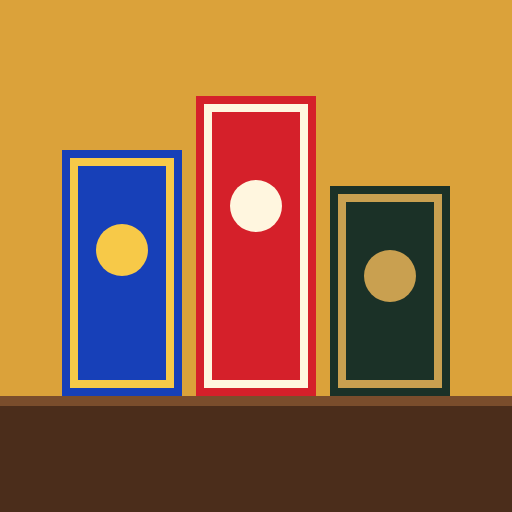
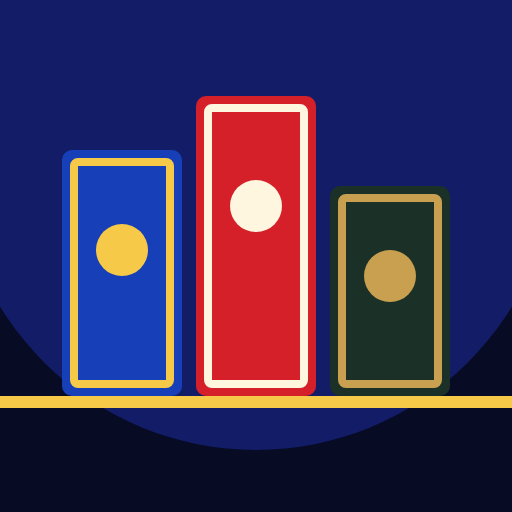
1.1.0: a new look, to match the games
The redesign from the Friend Game Night design canvas: a dark navy stage with
a row of gold marquee bulbs, GAME NIGHT in the tall lettering Friend Feud
uses, the eight boxes as even cards in a grid, and a dark opened box with a
big gold button and a gold waiting bar. New Friend Feud box picture and
home-screen icons. How the page works is unchanged; npm test passes 39 of 39.

Claude-Session: https://claude.ai/code/session_01MUxEFSiy2ov4ZGJwRjcq63

diff --git a/public/style.css b/public/style.css
@@ -1,6 +1,6 @@
-/* Game Night: the hub. A rec-room wall, a walnut shelf, and one box per game.
+/* Game Night: the hub. A dark stage, a row of marquee bulbs, and one box per game.
    The boxes carry all the colour (each wears its own game's colours and lettering);
-   everything around them stays quiet. */
+   everything around them stays quiet. Same look as the games themselves. */
 
 @font-face { font-family: 'Bricolage'; src: url(fonts/bricolage.woff2) format('woff2'); font-weight: 200 800; font-stretch: 75% 100%; font-display: swap; }
 @font-face { font-family: 'Anton'; src: url(fonts/anton.woff2) format('woff2'); font-display: swap; }
@@ -9,164 +9,170 @@
 @font-face { font-family: 'Germania One'; src: url(fonts/germania.woff2) format('woff2'); font-display: swap; }
 
 :root {
-  --wall: #dba23a;        /* rec-room ochre */
-  --wall-lit: #e8b755;    /* where the lamp hits it */
-  --ink: #1d130c;
-  --walnut: #4b2d1b;
-  --walnut-lit: #7a4d2c;
-  --walnut-deep: #2c190e;
-  --paper: #fbf4e4;
-  --paper-line: #d9cba6;
-  --go: #1d7a46;
-  --plank: 18px;          /* thickness of a shelf */
-  --shade: 14px;          /* the shadow a shelf throws on the wall under it */
+  --ground: #070b24;      /* the stage */
+  --light: #1b2c9e;       /* where the spotlight hits it */
+  --panel: #0e1542;
+  --panel-hi: #1c2a7a;
+  --line: #2b3784;
+  --line-soft: #1b2466;
+  --text: #f5f2ea;
+  --soft: #c9d0f2;
+  --muted: #aeb7e6;
+  --gold: #f7c948;
+  --gold-deep: #9a6b00;
+  --gold-ink: #1f1600;
+  --go: #4ade80;
+  --display: 'Anton', 'Impact', 'Haettenschweiler', 'Arial Narrow Bold', sans-serif;
   --ui: 'Bricolage', 'Avenir Next', 'Segoe UI', system-ui, sans-serif;
 }
 
 * { box-sizing: border-box; }
-html { -webkit-text-size-adjust: 100%; }
+html { -webkit-text-size-adjust: 100%; background: var(--ground); }
 body {
   margin: 0; min-height: 100vh; min-height: 100dvh;
-  font: 400 1.0625rem/1.5 var(--ui); color: var(--ink);
-  background: radial-gradient(120% 70% at 50% 0%, var(--wall-lit), var(--wall) 60%) fixed var(--wall);
+  font: 400 1.0625rem/1.5 var(--ui); color: var(--text);
+  background: radial-gradient(ellipse 1100px 620px at 30% 0%, var(--light) 0%, rgba(14,21,66,0) 72%) no-repeat var(--ground);
   padding: env(safe-area-inset-top) env(safe-area-inset-right) env(safe-area-inset-bottom) env(safe-area-inset-left);
 }
-:focus-visible { outline: 3px solid var(--ink); outline-offset: 3px; }
+/* a row of marquee bulbs across the top of the page */
+body::before {
+  content: ""; display: block; height: 16px; margin-top: 28px;
+  background: radial-gradient(circle, var(--gold) 0 4px, rgba(247,201,72,0) 5px) center / 40px 16px repeat-x;
+}
+:focus-visible { outline: 3px solid var(--gold); outline-offset: 3px; }
 
 /* ---------------------------------------------------------------- top */
-.top { max-width: 1120px; margin: 0 auto; padding: clamp(1.5rem, 5vw, 3.5rem) 1.25rem clamp(1rem, 3vw, 2rem); }
-.top h1 {
-  margin: 0; font-weight: 800; font-stretch: 75%; letter-spacing: -0.035em; line-height: .86;
-  font-size: clamp(3.6rem, 15vw, 9.5rem); text-wrap: balance;
+.top {
+  max-width: 1200px; margin: 0 auto; padding: clamp(1.75rem, 5vw, 3.5rem) 1.5rem clamp(1.5rem, 4vw, 3.5rem);
+  display: flex; flex-wrap: wrap; align-items: flex-end; justify-content: space-between; gap: 1rem 3rem;
 }
-.lede { margin: .9rem 0 0; max-width: 34ch; font-size: clamp(1.1rem, 2.2vw, 1.4rem); line-height: 1.35; font-weight: 500; }
+.top h1 {
+  margin: 0; font: 400 clamp(4.4rem, 16vw, 12.5rem)/.9 var(--display); letter-spacing: .01em; text-transform: uppercase;
+  display: flex; flex-wrap: wrap; gap: 0 .22em;
+}
+.top h1 span { color: var(--gold); }
+.lede { margin: 0 0 .8rem; max-width: 22rem; font-size: clamp(1.1rem, 2.2vw, 1.3rem); line-height: 1.4; font-weight: 500; color: var(--soft); }
 
 /* -------------------------------------------------------------- shelf */
-.shelf { container-type: inline-size; max-width: 1120px; margin: 0 auto; padding: 0 .5rem; }
+.shelf { container-type: inline-size; max-width: 1200px; margin: 0 auto; padding: 0 1.5rem; }
 .rack {
-  --cols: 4; --row: 31cqw; --name: 2.9cqw;
-  list-style: none; margin: 0; padding: 0 1.5cqw;
-  display: grid; grid-template-columns: repeat(var(--cols), 1fr); grid-auto-rows: var(--row);
-  /* one walnut plank under every row, however many rows there are */
-  background:
-    repeating-linear-gradient(to bottom,
-      rgba(29,19,12,0) 0, rgba(29,19,12,0) calc(var(--row) - var(--plank) - var(--shade)),
-      var(--walnut-lit) calc(var(--row) - var(--plank) - var(--shade)), var(--walnut-lit) calc(var(--row) - var(--plank) - var(--shade) + 2px),
-      var(--walnut) calc(var(--row) - var(--plank) - var(--shade) + 2px), var(--walnut) calc(var(--row) - var(--shade) - 4px),
-      var(--walnut-deep) calc(var(--row) - var(--shade) - 4px), var(--walnut-deep) calc(var(--row) - var(--shade)),
-      rgba(29,19,12,.24) calc(var(--row) - var(--shade)), rgba(29,19,12,0) var(--row));
-  border-radius: 3px;
+  --cols: 4; --row: 28cqw; --gap: 2cqw; --name: 2.9cqw;
+  list-style: none; margin: 0; padding: 0;
+  display: grid; grid-template-columns: repeat(var(--cols), minmax(0, 1fr)); grid-auto-rows: var(--row); gap: var(--gap);
 }
-@container (max-width: 700px) { .rack { --cols: 2; --row: 62cqw; --name: 6cqw; padding: 0 2cqw; } }
+@container (max-width: 700px) { .rack { --cols: 2; --row: 60cqw; --gap: 4cqw; --name: 6cqw; } }
 
-.rack li { display: flex; align-items: flex-end; justify-content: center; padding: var(--shade) 0 calc(var(--plank) + var(--shade)); min-width: 0; }
-.rack li:nth-child(4n+1) { --h: .93; }
-.rack li:nth-child(4n+2) { --h: .86; }
-.rack li:nth-child(4n+3) { --h: .9; }
-.rack li:nth-child(4n)   { --h: .82; }
+.rack li { display: flex; min-width: 0; }
 
 .box {
   --lid: #333; --ink2: #fff; --trim: #fff;
-  position: relative; width: 84%; height: calc(100% * var(--h, .9));
+  position: relative; flex: 1; min-width: 0;
   display: grid; grid-template-rows: 1fr auto; gap: 1.2cqw;
-  padding: 2.4cqw 3.3cqw 2cqw 2.2cqw; margin: 0; border: 0; border-radius: 3px 3px 1px 1px;
+  padding: 2.2cqw 2cqw 1.9cqw; margin: 0; border: 0; border-radius: 1.6cqw;
   background: var(--lid); color: var(--ink2); font: inherit; text-align: left; cursor: pointer;
-  /* trim frame, the lid's right-hand edge, and the shadow it throws on the wall */
-  box-shadow:
-    inset 0 0 0 .55cqw var(--lid), inset 0 0 0 .8cqw var(--trim),
-    inset -1.1cqw 0 0 rgba(0,0,0,.22),
-    .9cqw 0 0 -0.1cqw rgba(29,19,12,.16), 0 -1px 0 rgba(255,255,255,.25);
-  transition: transform .16s ease;
+  /* the trim frame, and the edge the box stands on */
+  box-shadow: inset 0 0 0 .55cqw var(--lid), inset 0 0 0 .8cqw var(--trim), 0 .8cqw 0 rgba(0,0,0,.45);
+  transition: transform .16s ease, box-shadow .16s ease;
   -webkit-tap-highlight-color: transparent;
 }
 @container (max-width: 700px) {
-  .box { padding: 5cqw 6.4cqw 4cqw 4.4cqw; gap: 2.4cqw;
-    box-shadow: inset 0 0 0 1.1cqw var(--lid), inset 0 0 0 1.6cqw var(--trim), inset -2.2cqw 0 0 rgba(0,0,0,.22), 1.8cqw 0 0 -0.2cqw rgba(29,19,12,.16), 0 -1px 0 rgba(255,255,255,.25); }
+  .box { padding: 4.6cqw 4.2cqw 4cqw; gap: 2.4cqw; border-radius: 3.4cqw;
+    box-shadow: inset 0 0 0 1.1cqw var(--lid), inset 0 0 0 1.6cqw var(--trim), 0 1.6cqw 0 rgba(0,0,0,.45); }
 }
-.box:hover, .box:focus-visible { transform: translateY(-1.1cqw); }
-.box:active { transform: translateY(-.3cqw); }
+.box:hover, .box:focus-visible { transform: translateY(-.7cqw); }
+.box:active { transform: translateY(.3cqw); }
 .box .art { position: relative; display: grid; place-items: center; min-height: 0; }
 .box .art img { position: absolute; inset: 6% 14%; width: 72%; height: 88%; object-fit: contain; }
-.box .art .letter { font: 800 12cqw/1 var(--ui); color: var(--trim); }
+.box .art .letter { font: 400 12cqw/1 var(--display); color: var(--trim); }
 .box .name {
   display: block; font-family: var(--face, var(--ui)), var(--ui); font-weight: 800;
   font-size: calc(var(--name) * var(--fit, 1)); line-height: 1.02; text-wrap: balance;
 }
-.box .who { display: block; margin-top: .5cqw; font: 500 max(.72rem, calc(var(--name) * .42))/1.2 var(--ui); opacity: .9; }
+.box .who { display: block; margin-top: .5cqw; font: 600 max(.72rem, calc(var(--name) * .42))/1.2 var(--ui); }
 
 /* ---------------------------------------------------------------- how */
-.how { max-width: 1120px; margin: 0 auto; padding: clamp(2.2rem, 6vw, 4rem) 1.25rem 1rem; }
-.how h2 { margin: 0 0 1rem; font-weight: 800; font-stretch: 75%; font-size: clamp(1.6rem, 4vw, 2.4rem); letter-spacing: -.02em; line-height: 1; }
-.how ol { list-style: none; counter-reset: s; margin: 0; padding: 0; display: grid; gap: 1.1rem 2rem; grid-template-columns: repeat(auto-fit, minmax(15rem, 1fr)); }
-.how li { counter-increment: s; display: grid; grid-template-columns: auto 1fr; gap: .8rem; align-items: start; line-height: 1.4; max-width: 34ch; }
+.how { max-width: 1200px; margin: clamp(2.5rem, 6vw, 4rem) auto 0; padding: 0 1.5rem 1rem; }
+.how h2 {
+  margin: 0 0 1.75rem; padding-top: clamp(2rem, 5vw, 3rem); border-top: 2px solid var(--line-soft);
+  font: 400 clamp(2rem, 5vw, 2.75rem)/1 var(--display); letter-spacing: .03em; text-transform: uppercase;
+}
+.how ol { list-style: none; counter-reset: s; margin: 0; padding: 0; display: grid; gap: 1.5rem 2.5rem; grid-template-columns: repeat(auto-fit, minmax(min(16rem, 100%), 1fr)); }
+.how li { counter-increment: s; display: grid; grid-template-columns: auto 1fr; gap: 1rem; align-items: start; font-size: 1.125rem; line-height: 1.45; color: var(--soft); }
 .how li > span { min-width: 0; }
-.how li::before { content: counter(s); font-weight: 800; font-stretch: 75%; font-size: 2.6rem; line-height: .9; min-width: 1.4rem; }
-.nap { margin: 1.6rem 0 0; max-width: 62ch; padding-top: 1rem; border-top: 2px solid rgba(29,19,12,.25); }
-.plain { max-width: 1120px; margin: 1rem auto; padding: 0 1.25rem; }
-.plain a { color: inherit; }
+.how li strong { color: var(--text); }
+.how li::before { content: counter(s); font: 400 4rem/.9 var(--display); color: var(--gold); min-width: 1.6rem; }
+.nap { margin: 1.75rem 0 0; max-width: 62ch; font-size: 1rem; color: var(--muted); }
+.plain { max-width: 1200px; margin: 1rem auto; padding: 0 1.5rem; }
+.plain a { color: var(--gold); }
 
-.foot { max-width: 1120px; margin: 0 auto; padding: 1.5rem 1.25rem 2.5rem; font-size: .9rem; opacity: .75; }
+.foot { max-width: 1200px; margin: 0 auto; padding: 2rem 1.5rem 2.5rem; font-size: .8rem; font-weight: 700; letter-spacing: .08em; text-transform: uppercase; color: #8e99d6; }
 
 /* ------------------------------------------------------- the opened box */
 dialog {
   --lid: #333; --ink2: #fff; --trim: #fff;
-  width: min(34rem, calc(100vw - 1.5rem)); max-height: calc(100dvh - 1.5rem);
-  padding: 0; border: 0; border-radius: 6px; overflow: auto;
-  background: var(--paper); color: var(--ink);
-  box-shadow: 0 1.5rem 4rem rgba(29,19,12,.5);
+  width: min(35rem, calc(100vw - 1.5rem)); max-height: calc(100dvh - 1.5rem);
+  padding: 0; border: 0; border-radius: 22px; overflow: auto;
+  background: var(--panel); color: var(--text);
+  box-shadow: 0 0 0 2px var(--line), 0 2.5rem 6rem rgba(0,0,0,.7);
 }
-dialog::backdrop { background: rgba(29,19,12,.62); }
+dialog::backdrop { background: rgba(3,5,26,.82); }
 dialog[open] { animation: lift .18s ease-out; }
 @keyframes lift { from { transform: translateY(14px); opacity: 0; } }
 
 .lid {
   display: grid; grid-template-columns: auto 1fr auto; gap: 1rem; align-items: center;
-  padding: 1.1rem 1.1rem 1.1rem 1.25rem; background: var(--lid); color: var(--ink2);
-  box-shadow: inset 0 -4px 0 var(--trim);
+  padding: 1.25rem 1.25rem 1.25rem 1.4rem; background: var(--lid); color: var(--ink2);
+  border-bottom: 5px solid var(--trim);
 }
 .lid img, .lid .letter { width: 3.6rem; height: 3.6rem; }
 .lid .letter[hidden], .lid img[hidden] { display: none; }
-.lid .letter { display: grid; place-items: center; font: 800 2.4rem/1 var(--ui); color: var(--trim); }
-.lid h2 { margin: 0; font-family: var(--face, var(--ui)), var(--ui); font-weight: 800; font-size: clamp(1.5rem, 6vw, 2.1rem); line-height: 1.05; text-wrap: balance; }
-.lid form { margin: 0; align-self: start; }
-.shut { font: 600 .9rem/1 var(--ui); color: inherit; background: rgba(0,0,0,.22); border: 1.5px solid currentColor; border-radius: 99px; padding: .5rem .8rem; cursor: pointer; }
+.lid .letter { display: grid; place-items: center; font: 400 2.6rem/1 var(--display); color: var(--trim); }
+.lid h2 { margin: 0; font-family: var(--face, var(--ui)), var(--ui); font-weight: 800; font-size: clamp(1.5rem, 6vw, 2.2rem); line-height: 1.05; text-wrap: balance; }
+.lid form { margin: 0; }
+.shut { font: 700 .9rem/1 var(--ui); color: inherit; background: rgba(0,0,0,.28); border: 1.5px solid currentColor; border-radius: 99px; min-height: 44px; padding: 0 1.1rem; cursor: pointer; }
 .shut:focus-visible { outline-color: var(--ink2); }
 
-.inside { padding: 1.25rem; }
+.inside { padding: 1.5rem; }
 .inside[hidden] { display: none; }
-.pitch { margin: 0 0 1.1rem; font-size: 1.125rem; line-height: 1.45; }
-.facts { margin: 0 0 1.1rem; border-top: 1px solid var(--paper-line); }
-.facts div { display: grid; grid-template-columns: 6.5rem 1fr; gap: .75rem; padding: .55rem 0; border-bottom: 1px solid var(--paper-line); }
-.facts dt { font-weight: 700; }
-.facts dd { margin: 0; }
+.pitch { margin: 0 0 1.25rem; font-size: 1.125rem; line-height: 1.45; font-weight: 500; }
+.facts { margin: 0 0 1.25rem; border-top: 1.5px solid var(--line-soft); }
+.facts div { display: grid; grid-template-columns: 7rem 1fr; gap: .75rem; padding: .7rem 0; border-bottom: 1.5px solid var(--line-soft); }
+.facts dt { font-size: .8rem; font-weight: 800; letter-spacing: .1em; text-transform: uppercase; color: var(--gold); padding-top: .2rem; }
+.facts dd { margin: 0; font-weight: 600; }
 
-.status { display: flex; align-items: center; gap: .6rem; margin: 0 0 1rem; font-weight: 600; min-height: 1.6rem; }
-.dot { width: .75rem; height: .75rem; border-radius: 50%; background: #9a8a63; flex: none; }
-.status[data-state="waking"] .dot, .status[data-state="checking"] .dot { background: #c9820a; animation: pulse 1.1s ease-in-out infinite; }
+.status { display: flex; align-items: center; gap: .6rem; margin: 0 0 1.25rem; font-weight: 700; min-height: 1.6rem; }
+.dot { width: .75rem; height: .75rem; border-radius: 50%; background: #8e99d6; flex: none; }
+.status[data-state="waking"] .dot, .status[data-state="checking"] .dot { background: var(--gold); animation: pulse 1.1s ease-in-out infinite; }
 .status[data-state="ready"] .dot { background: var(--go); }
-.status[data-state="stuck"] .dot { background: #b3261e; }
+.status[data-state="stuck"] .dot { background: #ff6a5e; }
 @keyframes pulse { 50% { opacity: .25; } }
 
-.acts { display: grid; gap: .65rem; }
+.acts { display: grid; gap: .9rem; }
 .btn {
-  display: block; width: 100%; text-align: center; text-decoration: none; cursor: pointer;
-  font: 700 1.0625rem/1.2 var(--ui); padding: .95rem 1rem; border-radius: 8px;
-  color: var(--ink); background: transparent; border: 2px solid var(--ink);
+  display: flex; align-items: center; justify-content: center; width: 100%; min-height: 3.5rem; text-align: center; text-decoration: none; cursor: pointer;
+  font: 800 1rem/1.2 var(--ui); padding: .6rem 1rem; border-radius: 16px;
+  color: #d6dcff; background: transparent; border: 1.5px solid #3a4aa8;
+  transition: transform .09s ease-out, box-shadow .09s ease-out, background-color .15s;
 }
-.btn.main { color: var(--paper); background: var(--ink); }
-.btn:hover { background: rgba(29,19,12,.08); }
-.btn.main:hover { background: #3a281b; }
+.btn:hover { background: rgba(255,255,255,.07); color: #fff; }
+.btn.main {
+  min-height: 4.25rem; padding-top: .8rem; border: 0; border-radius: 18px; margin-bottom: 6px;
+  font: 400 1.7rem/1 var(--display); letter-spacing: .06em; text-transform: uppercase;
+  color: var(--gold-ink); background: var(--gold); box-shadow: 0 6px 0 var(--gold-deep);
+}
+.btn.main:hover { background: #ffd966; color: var(--gold-ink); }
+.btn.main:active { transform: translateY(4px); box-shadow: 0 2px 0 var(--gold-deep); }
 .btn[hidden] { display: none; }
-.hint { margin: .8rem 0 0; font-size: .95rem; color: #5a4a35; }
+.hint { margin: 1rem 0 0; font-size: .9rem; color: var(--muted); }
 .hint:empty { display: none; }
 
-.waithead { margin: .25rem 0 1rem; font-weight: 800; font-stretch: 75%; font-size: 1.7rem; line-height: 1.1; letter-spacing: -.01em; text-wrap: balance; }
-.bar { height: .75rem; border-radius: 99px; background: #e6d9b8; overflow: hidden; margin-bottom: 1rem; }
-.bar i { display: block; height: 100%; width: 4%; border-radius: 99px; background: var(--lid); transition: width .4s linear; }
-.waitnote { margin: 0 0 1.25rem; color: #5a4a35; }
+.waithead { margin: .25rem 0 1.25rem; font: 400 2.1rem/1.1 var(--display); letter-spacing: .02em; text-transform: uppercase; text-wrap: balance; }
+.bar { height: 1.25rem; padding: 4px; border-radius: 99px; background: var(--ground); box-shadow: inset 0 0 0 1.5px var(--line); overflow: hidden; margin-bottom: 1.25rem; }
+.bar i { display: block; height: 100%; width: 4%; border-radius: 99px; background: var(--gold); transition: width .4s linear; }
+.waitnote { margin: 0 0 1.5rem; color: var(--soft); }
 
 @media (prefers-reduced-motion: reduce) {
-  .box, .bar i { transition: none; }
+  .box, .bar i, .btn { transition: none; }
   .box:hover, .box:focus-visible, .box:active { transform: none; }
   dialog[open] { animation: none; }
   .status .dot { animation: none !important; }

diff --git a/public/index.html b/public/index.html
@@ -6,17 +6,17 @@
 <title>Game Night</title>
 <meta name="description" content="Every game in one place. Pick a box, put it on the TV, and everyone plays from their phone.">
 <meta name="robots" content="noindex">
-<meta name="theme-color" content="#dba23a">
+<meta name="theme-color" content="#070b24">
 <link rel="manifest" href="manifest.webmanifest">
 <link rel="icon" href="icon.svg" type="image/svg+xml">
 <link rel="apple-touch-icon" href="icon-180.png">
 <link rel="preload" href="fonts/bricolage.woff2" as="font" type="font/woff2" crossorigin>
-<link rel="stylesheet" href="style.css?v=1.0.0">
+<link rel="stylesheet" href="style.css?v=1.1.0">
 </head>
 <body>
 
 <header class="top">
-  <h1>Game Night</h1>
+  <h1>Game <span>Night</span></h1>
   <p class="lede">Pick a box. One screen shows the board, and everyone plays from their phone.</p>
 </header>
 
@@ -88,7 +88,7 @@
   </div>
 </dialog>
 
-<script src="games.js?v=1.0.0"></script>
-<script src="hub.js?v=1.0.0"></script>
+<script src="games.js?v=1.1.0"></script>
+<script src="hub.js?v=1.1.0"></script>
 </body>
 </html>

diff --git a/public/hub.js b/public/hub.js
@@ -11,7 +11,7 @@
 (function () {
   'use strict';
 
-  var VERSION = '1.0.0';
+  var VERSION = '1.1.0';
   var GAMES = window.GAMES || [];
 
   var TRY_MS = 25000;        // how long one knock on the door may take before knocking again

diff --git a/test/check.py b/test/check.py
@@ -108,7 +108,7 @@ def main():
         page.wait_for_selector('#status[data-state="ready"]', timeout=3000)
         check('awake game says ready', page.inner_text('#status-text') == 'Awake and ready')
         check('address ends in #feud', page.url.endswith('#feud'))
-        check('computer: main button is the big screen', page.inner_text('#act-main') == 'Put it on this screen')
+        check('computer: main button is the big screen', page.text_content('#act-main') == 'Put it on this screen')
         page.wait_for_timeout(350); page.screenshot(path=str(SHOTS / 'desktop-box.png'))
         page.click('#act-main'); page.wait_for_selector('#landed')
         check('lands on the game\'s TV page', page.inner_text('#landed') == 'feudnight.onrender.com/tv', page.inner_text('#landed'))
@@ -127,7 +127,7 @@ def main():
         check('asleep game says waking', 'Waking it up' in page.inner_text('#status-text'))
         page.click('#act-other')
         page.wait_for_selector('#view-wait:not([hidden])')
-        check('waiting screen names the game', page.inner_text('#wait-head') == 'Setting up Friend Clue', page.inner_text('#wait-head'))
+        check('waiting screen names the game', page.text_content('#wait-head') == 'Setting up Friend Clue', page.text_content('#wait-head'))
         page.screenshot(path=str(SHOTS / 'desktop-waiting.png'))
         page.wait_for_selector('#landed', timeout=15000)
         check('opens by itself once up, on the player page', page.inner_text('#landed') == 'clue-4fcu.onrender.com/', page.inner_text('#landed'))
@@ -178,7 +178,7 @@ def main():
         check('"Open it anyway" appears after a while', page.is_visible('#wait-anyway'))
         check('…and points at the TV page', page.get_attribute('#wait-anyway', 'href') == 'https://friend-jeopardy.onrender.com/tv')
         page.clock.run_for(140000)
-        check('gives up after 2½ minutes and says so', 'taking longer than usual' in page.inner_text('#wait-head'), page.inner_text('#wait-head'))
+        check('gives up after 2½ minutes and says so', 'taking longer than usual' in page.text_content('#wait-head'), page.text_content('#wait-head'))
         page.screenshot(path=str(SHOTS / 'desktop-stuck.png'))
         page.context.close()
 
@@ -191,14 +191,14 @@ def main():
         page.screenshot(path=str(SHOTS / 'phone.png'), full_page=True)
         page.locator('.box', has_text='Settlers of Friends').tap()
         page.wait_for_selector('#status[data-state="ready"]')
-        check('phone: main button plays on the phone', page.inner_text('#act-main') == 'Play on this phone', page.inner_text('#act-main'))
+        check('phone: main button plays on the phone', page.text_content('#act-main') == 'Play on this phone', page.text_content('#act-main'))
         check('phone: the box fits the screen', page.evaluate("(() => { const r = document.getElementById('box').getBoundingClientRect(); return r.left >= 0 && r.right <= innerWidth && r.bottom <= innerHeight; })()"))
         page.wait_for_timeout(350); page.screenshot(path=str(SHOTS / 'phone-box.png'))
         page.tap('#act-main'); page.wait_for_selector('#landed')
         check('phone: lands on the player page', page.inner_text('#landed') == 'settlers-of-friends.onrender.com/', page.inner_text('#landed'))
         back(page)
         page.locator('.box', has_text='Friend Wheel').tap()
-        check('phone: a TV game says "Join on this phone"', page.inner_text('#act-main') == 'Join on this phone')
+        check('phone: a TV game says "Join on this phone"', page.text_content('#act-main') == 'Join on this phone')
         page.context.close()
         browser.close()
     srv.shutdown()

diff --git a/CHANGELOG.md b/CHANGELOG.md
@@ -3,6 +3,21 @@
 Every change to the hub gets an entry here, newest first. The version number is the same one shown
 in small print at the bottom of the page. Times are Pacific.
 
+## 1.1.0 · November 17, 2026
+
+**A new look, to match the games**
+- The page is now a dark stage instead of the rec-room wall and walnut shelf: deep navy, a row of
+  gold marquee bulbs across the top, and GAME NIGHT in the same tall lettering Friend Feud uses.
+- The eight boxes still wear their own game's colours and lettering. They are now even-sized cards
+  in a grid (four across on a computer, two across on a phone) instead of boxes on shelves.
+- The opened box is dark too: the facts are easier to scan, the main button is a big gold one, and
+  the waiting bar is gold.
+- Friend Feud's box has a new picture, a red strike tile, to match its new logo.
+- New home-screen icon and browser colour in the same navy.
+- Nothing about how the page works has changed: same boxes, same wording, same waking of a
+  sleeping game. `npm test` still checks 39 things (5 of them now ignore capital letters, because
+  the big buttons and the waiting headline are shown in capitals).
+
 ## 1.0.0 · November 16, 2026
 
 **First version: one address for every game**
